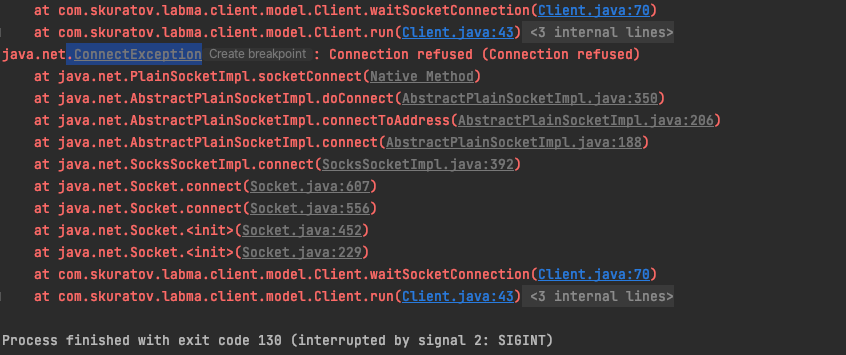
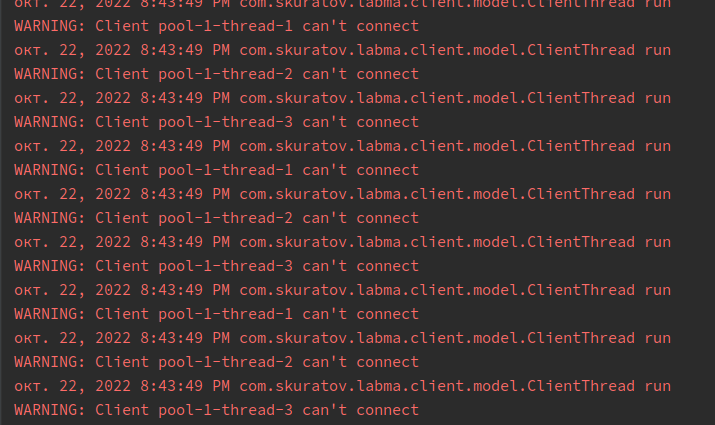
Взаимодействие клиента и сервера изменено на "online взаимодействие". Исправлены недочёты форматирования.

Changed region(s): [[0.0, 0.0, 0.9538, 0.9915]]

diff --git a/src/main/java/com/skuratov/labma/server/io/FIleThread.java b/src/main/java/com/skuratov/labma/server/io/FIleThread.java
@@ -1,16 +1,11 @@
 package com.skuratov.labma.server.io;
 
 import com.skuratov.labma.server.db.StoryLines;
-import org.apache.commons.io.input.ReversedLinesFileReader;
 
 import java.io.BufferedReader;
 import java.io.File;
-import java.io.FileReader;
 import java.io.IOException;
-import java.nio.charset.StandardCharsets;
-import java.util.ArrayList;
-import java.util.Collections;
-import java.util.List;
+import java.nio.file.Files;
 import java.util.logging.Logger;
 import java.util.regex.Pattern;
 
@@ -18,9 +13,12 @@ import java.util.regex.Pattern;
  * The class is needed to wait for the file with drawing data to change, and read it.
  */
 public class FIleThread extends Thread {
+
     private final static Logger logger = Logger.getLogger("FIleThread");
+
     private final File file;
-    private long lastTimeFile;
+
+    private volatile long lastTimeFile;
 
     /**
      * The constructor reads all the data from the file and passes it to the  data {@link StoryLines}.
@@ -28,9 +26,6 @@ public class FIleThread extends Thread {
      */
     public FIleThread(String fileName) {
         file = new File(fileName);
-        lastTimeFile = file.lastModified();
-        List<String> linesRead = readAllFile();
-        StoryLines.getInstance().updateStory(linesRead);
     }
 
     /**
@@ -38,60 +33,30 @@ public class FIleThread extends Thread {
      */
     @Override
     public synchronized void run() {
-        while (!this.isInterrupted()) {
-            if (file.lastModified() > lastTimeFile) {
-                List<String> readLines = this.readEndLine();
-                if (!readLines.isEmpty()) {
-                    logger.info(String.format("file update! time : %d, lines: %d", file.lastModified(), readLines.size()));
-                    StoryLines.getInstance().updateStory(readLines);
-                }
-                lastTimeFile = file.lastModified();
-            }
-        }
-    }
-
-    /**
-     * The method reads and checks for correctness all lines from the file.
-     * @return all lines from the file
-     */
-    private List<String> readAllFile() {
-        logger.info("Read all file.");
-        List<String> validLines = new ArrayList<>();
-        try (BufferedReader reader = new BufferedReader(new FileReader(file))) {
-            while (reader.ready()) {
-                String line = reader.readLine();
-                if (validateLine(line)) {
-                    validLines.add(line);
+        try (BufferedReader reader = Files.newBufferedReader(file.toPath())) {
+            while (!this.isInterrupted()) {
+                if (file.lastModified() > lastTimeFile) {
+                    lastTimeFile = file.lastModified();
+                    readChangesFile(reader);
                 }
             }
-            return validLines;
         } catch (IOException e) {
             throw new RuntimeException();
         }
     }
 
     /**
-     * The method reads the last lines from the file after it has been updated.
-     * @return read lines from file
+     * The method reads and writes new lines from the file.
+     * @param reader - reads lines from a file
      */
-    private List<String> readEndLine() {
-        logger.info("Read end file.");
-        List<String> updateLines = new ArrayList<>();
-        List<String> storyLines = StoryLines.getInstance().getLinesRead();
-
-        try (ReversedLinesFileReader reader = new ReversedLinesFileReader(file, StandardCharsets.UTF_8)) {
-            String lastLine = reader.readLine();
-            while (lastLine != null && !storyLines.contains(lastLine)) {
-                if (validateLine(lastLine)) {
-                    updateLines.add(lastLine);
-                }
-                lastLine = reader.readLine();
+    private void readChangesFile(BufferedReader reader) throws IOException {
+        logger.info("Read update lines... time: " + lastTimeFile);
+        while (reader.ready()) {
+            String line = reader.readLine();
+            if (validateLine(line)) {
+                StoryLines.getInstance().updateStory(line);
             }
-            Collections.reverse(updateLines);
-        } catch (IOException ex) {
-            ex.printStackTrace();
         }
-        return updateLines;
     }
 
     /**

diff --git a/src/main/java/com/skuratov/labma/server/ServerApplication.java b/src/main/java/com/skuratov/labma/server/ServerApplication.java
@@ -14,13 +14,17 @@ import java.util.logging.Level;
 import java.util.logging.Logger;
 
 /**
- * The Server class creates a multi-threaded data transfer between clients.
+ * The Server class creates a multithreaded data transfer between clients.
  */
 public class ServerApplication {
-    private final static String FILE_NAME = "src/main/resources/drawingCommands.txt";
-    private final static ExecutorService executorService = Executors.newFixedThreadPool(1);
-    private final static Set<ClientHandler> clientHandlers  = new HashSet<>();
+
     private final static Logger logger = Logger.getLogger("ServerApplication");
+
+    private final static String FILE = "src/main/resources/drawingCommands.txt";
+
+    private final static ExecutorService executorService = Executors.newFixedThreadPool(1);
+    private final static Set<ClientHandler> clientHandlers = new HashSet<>();
+
     private final String fileName;
 
     /**
@@ -36,14 +40,14 @@ public class ServerApplication {
      * and run a thread to check if the file is updated
      */
     public void start() {
-        logger.log(Level.INFO,"Server start");
+        logger.log(Level.INFO, "Server start");
         try (ServerSocket serverSocket = new ServerSocket(29288)) {
 
             //Test update file by time
             executorService.execute(new FIleThread(fileName));
             while (!serverSocket.isClosed()) {
                 Socket clientSocket = serverSocket.accept();
-                logger.log(Level.INFO,"Client connection");
+                logger.log(Level.INFO, "Client connection");
                 clientHandlers.add(new ClientHandler(clientSocket));
             }
         } catch (IOException e) {
@@ -56,6 +60,6 @@ public class ServerApplication {
     }
 
     public static void main(String[] args) {
-        new ServerApplication(FILE_NAME).start();
+        new ServerApplication(FILE).start();
     }
 }

diff --git a/src/main/java/com/skuratov/labma/client/model/ClientThread.java b/src/main/java/com/skuratov/labma/client/model/ClientThread.java
@@ -18,10 +18,13 @@ import java.util.logging.Logger;
  * The client class interacts with the server and with a graphical window for a single thread.
  */
 public class ClientThread implements Runnable {
+
     private final static Logger logger = Logger.getLogger("ServerApplication");
+
     private final String host;
     private final int port;
     private final MainWindow window;
+
     private Reader reader;
 
     /**
@@ -43,15 +46,19 @@ public class ClientThread implements Runnable {
         //If unable to connect to socket, wait for connection
         while (reader == null) {
             try (Socket socket = new Socket(host, port);
-                 BufferedReader in = new BufferedReader(
-                         new InputStreamReader(socket.getInputStream()))) {
+                 BufferedReader in = new BufferedReader(new InputStreamReader(socket.getInputStream()))) {
                 reader = new Reader(in);
                 while (!socket.isClosed()) {
                     repaint(in);
                 }
-
             } catch (IOException e) {
-                e.printStackTrace();
+                logger.warning(String.format("Client %s can't connect", Thread.currentThread().getName()));
+
+                try {
+                    Thread.sleep(100);
+                } catch (InterruptedException ex) {
+                    throw new RuntimeException(ex);
+                }
             }
         }
     }

diff --git a/src/main/java/com/skuratov/labma/server/db/StoryLines.java b/src/main/java/com/skuratov/labma/server/db/StoryLines.java
@@ -9,7 +9,9 @@ import java.util.List;
  * The class saves actual data from reading the file, allows you to reduce the number of file accesses
  */
 public class StoryLines {
+
     private static StoryLines story;
+
     private final static List<String> linesRead = new ArrayList<>();
 
     public static StoryLines getInstance() {
@@ -21,15 +23,14 @@ public class StoryLines {
 
     /**
      * The method gets the last read lines and adds them to the history.
-     * @param lastLine - new read lines from the file
+     * @param line - new read lines from the file
      */
-    public void updateStory(List<String> lastLine) {
-        if (lastLine != null && !lastLine.isEmpty()) {
-            ServerApplication.getClientHandlers().forEach(client -> client.send(lastLine));
-            linesRead.addAll(lastLine);
+    public void updateStory(String line) {
+        if (line != null && !line.isEmpty()) {
+            ServerApplication.getClientHandlers().forEach(client -> client.send(line));
+            linesRead.add(line);
         }
     }
-
 
     public List<String> getLinesRead() {
         return linesRead;

diff --git a/src/main/java/com/skuratov/labma/client/draw/BezierGraphic.java b/src/main/java/com/skuratov/labma/client/draw/BezierGraphic.java
@@ -16,10 +16,11 @@ public class BezierGraphic {
      * @return List formed from Bezier curves
      */
     public static List<CurveLine> getBezierCurves(List<CurveLine> readCurves) {
-       return readCurves.stream().map(BezierGraphic::getBezierCurve).collect(toList());
+        return readCurves.stream().map(BezierGraphic::getBezierCurve).collect(toList());
     }
 
     /**
+     * Method adds Bezier smoothing
      * @param line - curved line resulting from reading a file
      * @return - curved line obtained by the Bezier method
      */

diff --git a/src/main/java/com/skuratov/labma/server/handlers/ClientHandler.java b/src/main/java/com/skuratov/labma/server/handlers/ClientHandler.java
@@ -10,6 +10,7 @@ import java.util.List;
  * Class for sending messages to the client side
  */
 public class ClientHandler {
+
     private final PrintWriter out;
 
     /**
@@ -35,4 +36,12 @@ public class ClientHandler {
         }
     }
 
+    /**
+     * The method sends the read line to the client side.
+     * @param line - string to send to the client
+     */
+    public void send(String line) {
+        out.write(line + "\n");
+        out.flush();
+    }
 }

diff --git a/src/main/java/com/skuratov/labma/client/draw/model/CurveLine.java b/src/main/java/com/skuratov/labma/client/draw/model/CurveLine.java
@@ -6,14 +6,15 @@ import java.util.List;
 
 @Data
 public class CurveLine {
+
     private List<Point> points;
 
     public CurveLine(List<Point> listPoints) {
         this.points = listPoints;
     }
 
-    public void addBeginningPoint(Point point){
-        points.add(0,point);
+    public void addBeginningPoint(Point point) {
+        points.add(0, point);
     }
 
 }

diff --git a/src/main/java/com/skuratov/labma/client/ClientApplication.java b/src/main/java/com/skuratov/labma/client/ClientApplication.java
@@ -9,6 +9,7 @@ import java.util.concurrent.Executors;
  * ClientFactory - Class for creating client threads.
  */
 public class ClientApplication {
+
     public static void main(String[] args) {
         ExecutorService exec = Executors.newFixedThreadPool(3);
         for (int i = 0; i < 3; i++) {

diff --git a/src/main/java/com/skuratov/labma/client/draw/ColorParser.java b/src/main/java/com/skuratov/labma/client/draw/ColorParser.java
@@ -8,6 +8,7 @@ import java.util.HashMap;
  * Class for converting quantitative color values to a Color object.
  */
 public class ColorParser {
+
     private static final Map<String, Color> colorMap = new HashMap<>();
 
     static {colorMap.put("-16777216", Color.black);}

diff --git a/src/main/java/com/skuratov/labma/client/draw/MainWindow.java b/src/main/java/com/skuratov/labma/client/draw/MainWindow.java
@@ -20,7 +20,6 @@ public class MainWindow extends JFrame {
 
     /**
      * The method initializes the main elements and creates a jpanel to redraw the shapes.
-     *
      * @param width  - window graphics width
      * @param height - window graphics height
      */

diff --git a/src/main/java/com/skuratov/labma/client/io/Reader.java b/src/main/java/com/skuratov/labma/client/io/Reader.java
@@ -15,6 +15,7 @@ import java.util.Locale;
  * The ReaderSocket class is designed to read information coming from the server.
  */
 public class Reader {
+
     private final BufferedReader in;
 
     public Reader(BufferedReader in) {

diff --git a/src/main/java/com/skuratov/labma/client/draw/model/Point.java b/src/main/java/com/skuratov/labma/client/draw/model/Point.java
@@ -4,9 +4,9 @@ import lombok.Data;
 
 import java.awt.*;
 
-
 @Data
 public class Point {
+
     private float x;
     private float y;
     private Color color;
